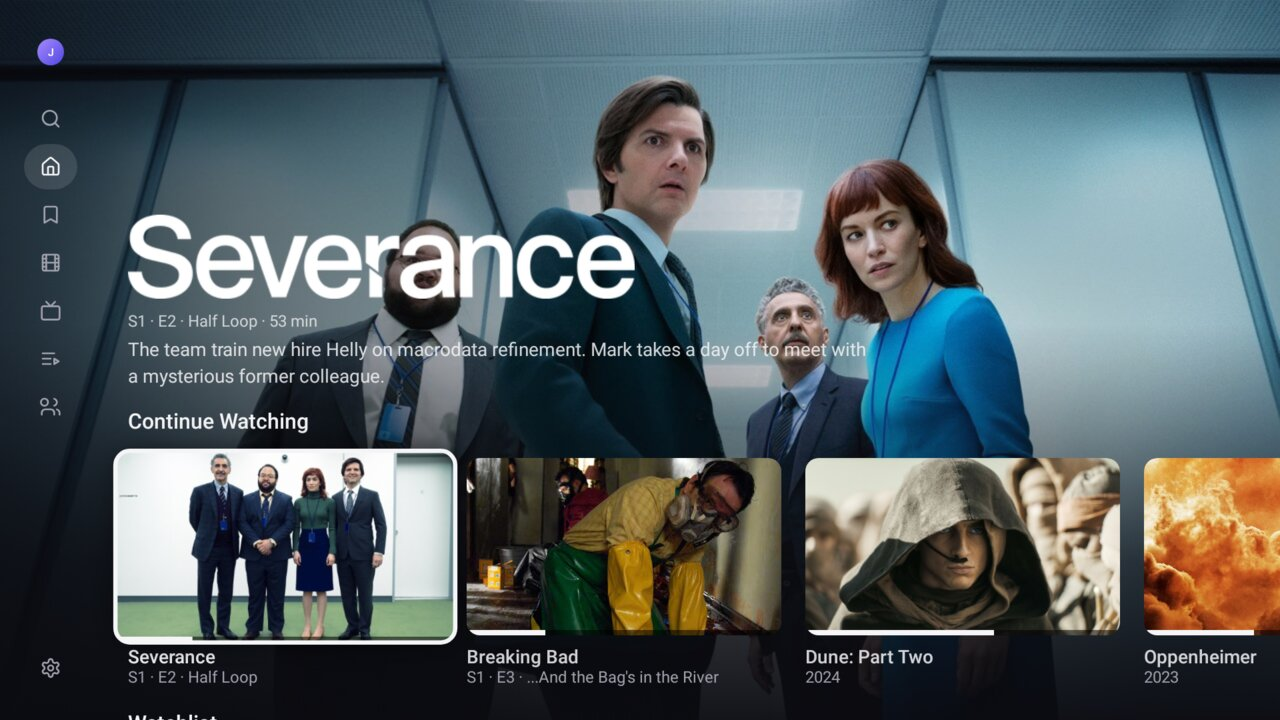
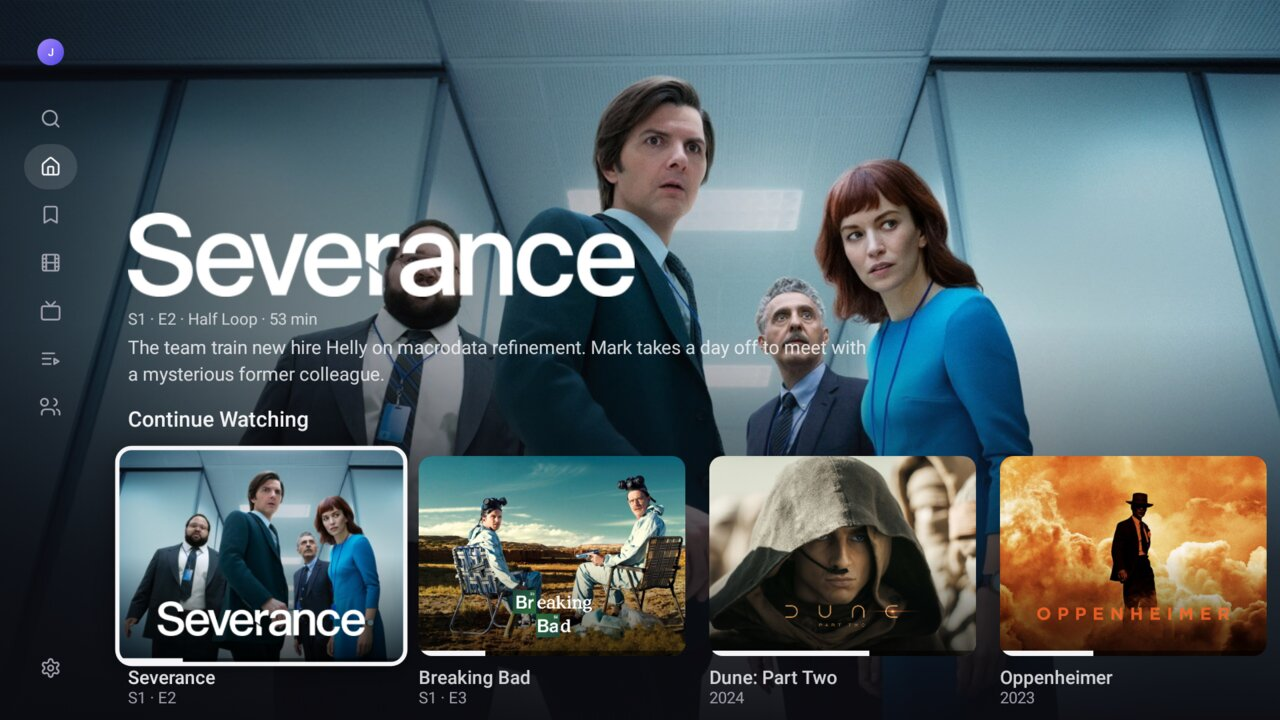
Retake the README Home picture with Continue Watching as Backdrops (#50)
The shared screenshot library now sets Continue Watching to Backdrops (each
title's backdrop with its logo) as the admin's default Home layout
(arc-media-server#491). The app already reads that from /me/prefs, so only
the Home picture is retaken, as a Robolectric render against the library.

Changed region(s): [[0.0625, 0.3056, 1.0, 1.0]]

diff --git a/docs/changes/2026-11-20-home-backdrops.md b/docs/changes/2026-11-20-home-backdrops.md
@@ -1,0 +1,29 @@
+# README Home picture: Continue Watching as Backdrops
+
+The shared screenshot library now sets Home's look: Continue Watching as Backdrops, each title's
+backdrop with its clear logo. The scratch server saves it as the admin's default Home layout
+(arc-media-server#491). The README's Home picture is retaken to match. The other pictures don't
+show Continue Watching and are unchanged. This README has no Watch Together picture.
+[Picture](2026-11-20-home-backdrops/).
+
+## What changed
+
+- `docs/screenshots/home.jpg`, retaken the same way as before. It is a Robolectric render of the
+  app's real Home with the real `ArcApi` against the shared library (arc-media-server at cce155b,
+  `--serve`), by `LiveScreenshotTest.home`. It is not an emulator or device capture.
+- **No app change needed:** after signing in as Jordan, `/me/prefs` answered
+  `home: [{"id": "continue", "style": "arc"}]`. The app already maps `arc` to Backdrop cards, and
+  the render shows them, with logos.
+- **No recordings re-recorded:** the README pictures are live renders, not drawn from recorded
+  responses. The recorded fixtures include no preferences response.
+
+## Checks
+
+- `./gradlew assembleDebug testDebugUnitTest recordRoborazziDebug`: passed, 271 tests, 0 failures,
+  2 skipped (`LiveServerTest`, and the recorder that only runs with `ARC_SCREENSHOTS_RECORD=1`). The
+  live Home drew 10 pictures, 0 failed. I looked at the picture.
+- **Not tried:** no emulator or device capture (no KVM here).
+
+## Logging
+
+None: only a picture and this note change.
